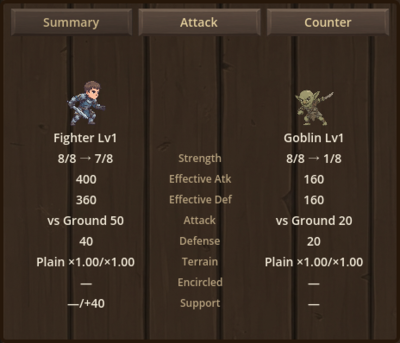
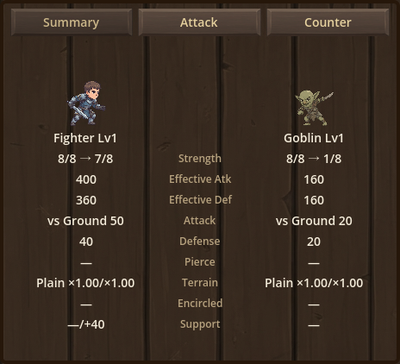
feat(ui): 戦闘レポートのサマリーに貫通の行を足す
サマリー板に貫通が無く、どちらの駒が貫通を持つのかが左右比較から読めなかった。
防御(基礎)の次に常設の行として置く。値はその駒が打撃したときに相手の防御を無視する
割合（50%）＝他の行と同じくその駒に紐づく属性として読ませる。打撃していない側
（反撃なしの守備側）と貫通なしは —。

マニュアルの絵（report_summary_ja/en.png）も撮り直す。

diff --git a/doc/tech/combat_scene.md b/doc/tech/combat_scene.md
@@ -86,12 +86,13 @@
 | 総防御 | 96 | 反撃なしの攻撃側（＝被弾なし）は「—」 |
 | 攻撃(基礎) | 対地12 | vs_aerial なら対空表記 |
 | 防御(基礎) | 8 | |
+| 貫通 | 50% | その駒が打撃したときに相手の防御を無視する割合。効いていなければ — |
 | 地形 | 森 ×0.90/×1.20 | ペアは常に**攻/防**の順（以下同） |
 | 包囲 | ×0.68 | 攻防共通の係数。効いていなければ — |
 | 支援 | +12/+8 | 効いていなければ — |
 | バフ ※ある時のみ | グレイス ×1.30/×1.30 | 状態補正エントリの `name`（combat.md 参照）。target が片側なら「×1.30/—」 |
 
-包囲・支援は常設の行＝素通しでも `—` を出す。行の有無で「効いたか」を探させない（行が消えると、効かなかったのか項目自体が無いのかが読めない）。バフの行だけは件数ゼロなら出さない。
+包囲・支援・貫通は常設の行＝素通しでも `—` を出す。行の有無で「効いたか」を探させない（行が消えると、効かなかったのか項目自体が無いのかが読めない）。バフの行だけは件数ゼロなら出さない。
 
 ### 攻撃／反撃の行構成
 
